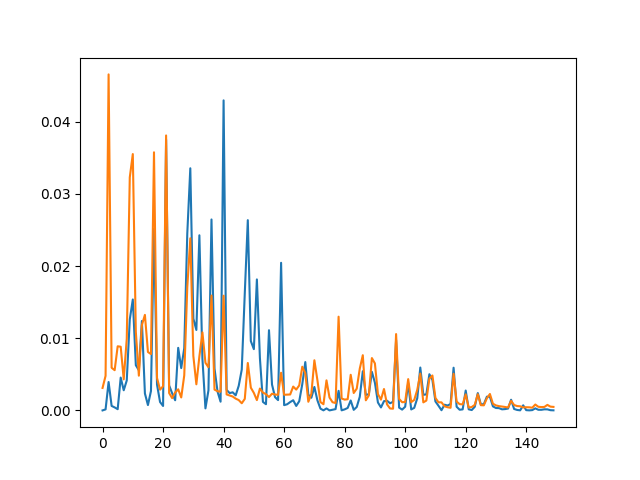
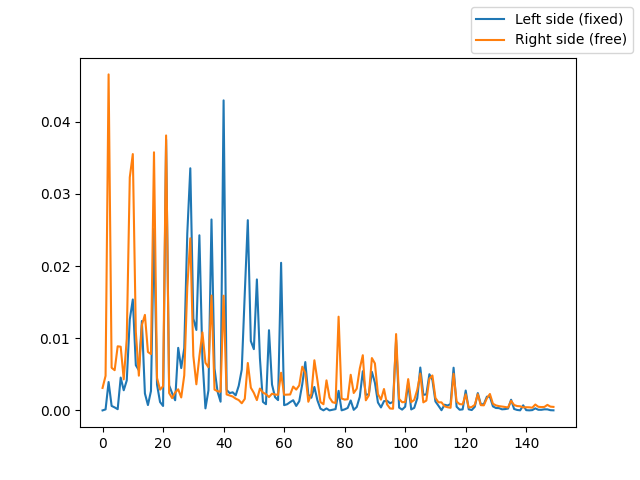
Added some useful comments

Changed region(s): [[0.75, 0.0, 1.0, 0.125]]

diff --git a/my_wave.py b/my_wave.py
@@ -5,6 +5,7 @@ import datetime
 class Wave():
 
   # static variable to control if it's running
+  # so all instances of the class share this one value
   running = True
 
   def __init__(self, velocity, clamp_right=True, clamp_left=True) -> None:
@@ -14,6 +15,7 @@ class Wave():
     # dt = dx/c
     self.dt = self.dx / velocity
 
+    # create y positional array for the wave
     self.wave_array = np.arange(0, 1, self.dx)
     self.time_range = 0
 
@@ -28,6 +30,8 @@ class Wave():
     self.save = False
 
     # hook up plot to a close event, so we can quit the animation
+    # by closing the animation window. otherwise the animation is
+    # impossible to stop.
     self.fig = plt.figure()
     self.fig.canvas.mpl_connect('close_event', self.on_close)
     pass
@@ -44,11 +48,14 @@ class Wave():
   def initial_conditions(self):
     '''
     Creates a gaussian pluck of the string
+    note: this function could be improved if 
+    we want custom initial conditions, but for now it's
+    hardcoded to create a gaussian pluck 40% from the end.
     '''
     k = 1000
     x0 = .6
 
-    # gaussian wavepacket 60% into the wave
+    # gaussian wavepacket 40% away from the end of the wave
     y_array = np.exp(-k * (self.wave_array - x0)**2)
 
     # take a single step to get our 3 arrays, old, current, and new.
@@ -80,25 +87,33 @@ class Wave():
 
 
   def animated_plot(self, _seconds):
+    '''
+    Opens a window that animates a wave on a string moving
+    '''
+    # get our basic graph from initial conditions
     old, current, new = self.initial_conditions()
 
+    # get start and end time based on the _seconds parameter
     start_time = datetime.datetime.now()
     end_time = start_time + datetime.timedelta(seconds=_seconds)
 
+    # bounds for our graph
     ymin = -max(current)
     ymax = max(current)
 
     while True:
       # quit if running flag is false
+      # note: self.running is false when the user closes a window
       if not self.running:
         return
       
+      # update our wave to the next position
       old, current, new = self.step(current, new)
 
-      # plot one frame
       # enforce axes
       plt.ylim(ymin, ymax)
 
+      # plot one frame
       plt.plot(self.wave_array, current)
       plt.draw()
       plt.pause(self.dt)
@@ -111,18 +126,31 @@ class Wave():
 
   @classmethod
   def set_running(cls, value:bool):
+    '''Static method that sets the running parameter'''
     cls.running = value
 
   def on_close(self, event):
+    '''Method that is called when user closes the window'''
     self.set_running(False)
     pass
 
 
   def generate_pos_over_time_data(self, amount_of_time: int):
+    '''
+    Fills the self.left_over_time and self.right_over_time graphs.
+    These are the two ends of the string's y displacement over time.
+    by the 'two ends' I mean 5% away from the ends.
+
+    note: this method is similar to animated_plot but this does the 
+    whole thing fast and just generates a final plot. 
+    '''
 
     old, current, new = self.initial_conditions()
 
+    # loop over our time period
     for i in range(round(amount_of_time / self.dt)):
+
+      # update our wave
       old, current, new = self.step(current, new)
 
       # save to our lists
@@ -138,6 +166,9 @@ class Wave():
 
   
   def plot_pos_over_time(self):
+    '''
+    Plots the pos over time data with accurate labels
+    '''
     left_free_label = "fixed"
     right_free_label = "fixed"
     # fix plot labels
@@ -176,9 +207,12 @@ class Wave():
 
   def plot_dfts(self, graph_portion=3):
     '''
-    plot frequency vs. power
+    plots frequency vs. power, and calculates fundamental frequencies.
     parameter is graph_portion, the higher the value the less
     of the graph we generate. 
+
+    Note: this function does a lot, and it probably should
+    be split up into different functions. 
     '''
     # first create our frequency axis
     
@@ -208,6 +242,8 @@ class Wave():
       x1[:int(len(x1)//graph_portion)], 
       y1[:int(len(y1)//graph_portion)],
       label=f"Right side ({right_free_label})")
+    
+    fig.legend()
     fig.savefig("outputs/dft_plots.png")
 
     # print out the fundamental frequencies
@@ -219,6 +255,10 @@ class Wave():
     print(f"The fundamental frequencies (left) are: {y_frequencies}")
     print(f"The fundamental frequencies (right) are: {y1_frequencies}")
 
+
+
+
+  # some helper functions for self.plot_dfts
 
   def find_indices_of_maxima(self, _array:list):
     '''returns a list of indices where we are at maxima'''

diff --git a/main.py b/main.py
@@ -1,13 +1,10 @@
 import numpy as np
-import os
-import time
 from matplotlib import pyplot as plt
 
 from my_wave import Wave
 
 def main():
-  # example of some of the stuff we can do
-
+  # example of some of the Wave class can do
   w = Wave(15)
   w.set_clamp(right_clamp=False)
   #w.animated_plot(10)

diff --git a/README.md b/README.md
@@ -20,8 +20,18 @@ Note: n has to do with time and i has to do with position
 
 
 # Fourier spectrum
+The discrete fourier transform (DFT) method was used. This can calculate with small uncertainty the frequencies of waves. We will calculate the frequencies of these waves and analyze them in the next section.
 
 # Results
+![position over time](outputs/pos_over_time.png)
+![dft plots](outputs/dft_plots.png)
 
+Output for the fundamental frequencies:
+
+The fundamental frequencies (left) are: [2, 6, 10, 13, 17, 21, 25, 29, 32, 36, 40, 43, 48, 51, 55, 59, 63, 67, 70, 74, 78, 82, 86, 89, 94, 97, 101, 105, 108, 113, 116, 120, 124, 127, 135, 139, 143, 146, 154, 158, 162, 166, 169, 173, 177, 179, 181, 185, 188, 192, 196, 200, 204, 207, 211, 215, 219, 223, 227, 230, 234, 238, 242, 245, 250, 253, 257, 261, 265, 269, 272, 276, 280, 284, 288, 291, 295, 299, 303, 306, 310, 314, 318, 322, 325, 329, 333, 337, 341, 344, 348, 352, 356, 360, 363, 367, 371]
+
+The fundamental frequencies (right) are: [2, 5, 10, 14, 17, 21, 25, 29, 33, 36, 40, 48, 52, 56, 59, 63, 66, 70, 74, 78, 82, 86, 89, 93, 97, 101, 105, 109, 116, 120, 124, 128, 135, 140, 143, 147, 155, 159, 165, 168, 170, 173, 177, 180, 184, 188, 192, 196, 199, 203, 207, 211, 215, 217, 219, 222, 226, 228, 234, 238, 243]
 
 # Analysis
+
+Observing the fundamental frequencies for each side, we see that they are almost the same frequencies. The interesting part is the power is greater for the free side at lower frequencies, and the power is greater for the fixed side at higher frequencies. After about 60 Hz, they settle down and there isn't much variation on the free vs. the fixed side. 
